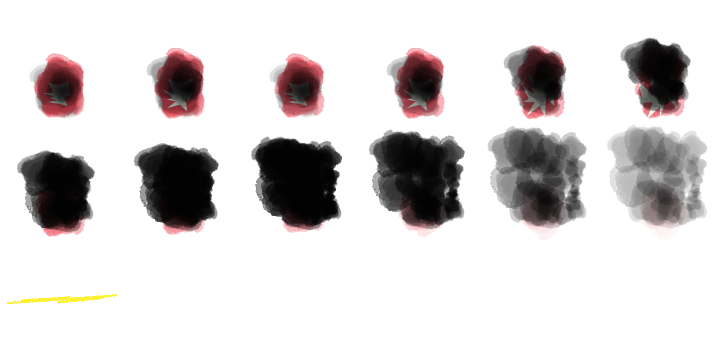
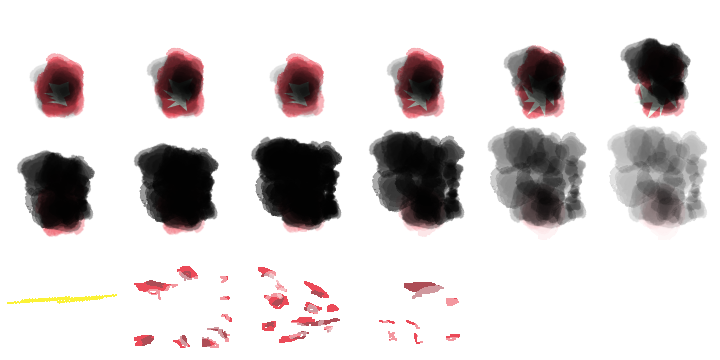
ftr(*): add more blood

diff --git a/minesweeper/src/game/Graphics.js b/minesweeper/src/game/Graphics.js
@@ -43,10 +43,21 @@ export default class Graphics {
         return smoke;
     }
 
-    createBloodSpot(pos, corpseDepth) {
+    createBigSpot(pos) {
         const me = this;
 
         /** @type {Phaser.GameObjects.Sprite} */
+        const bigSpot = me._pool.create(pos.x, pos.y + 12, 'explosions', Utils.getRandom(13, 15))
+        .setDepth(Consts.Depth.Ground);
+        
+        bigSpot.setAngle(Utils.getRandom(0, 360));
+    }
+
+    createBloodSpot(pos, corpseDepth) {
+        const me = this;
+
+        
+    
         const spot = me._pool.create(pos.x, pos.y + 12, 'items', 12)
             .setDepth(Consts.Depth.Ground);
     }

diff --git a/minesweeper/src/game/utils/Animation.js b/minesweeper/src/game/utils/Animation.js
@@ -15,7 +15,7 @@ export default class Animation {
 
         scene.anims.create({
             key: 'mine_explosion',
-            frames: Animation.getFrames(scene, 'explosions', [0, 1, 2, 3, 4, 5, 6, 7, 8, 9, 10, 11, 13]),
+            frames: Animation.getFrames(scene, 'explosions', [0, 1, 2, 3, 4, 5, 6, 7, 8, 9, 10, 11, 16]),
             frameRate: 24,
         });
 

diff --git a/minesweeper/src/game/minesweeper/Minesweeper.js b/minesweeper/src/game/minesweeper/Minesweeper.js
@@ -523,6 +523,8 @@ export default class Minesweeper {
             me._graphics.createSmoke(cellPosition);
 
             me._audio.play('explosion');
+
+            me._graphics.createBigSpot(cellPosition);
         }
 
         const upY = position.y - Consts.Explode.BodyHeight;

diff --git a/minesweeper/src/game/Config.js b/minesweeper/src/game/Config.js
@@ -8,7 +8,7 @@ export default class Config {
         Random: false,
         Level: true,
         Restart: true,
-        Mines: false,
+        Mines: true,
         TweenSpeed: false,
         Timer: false,
         LevelName: true
